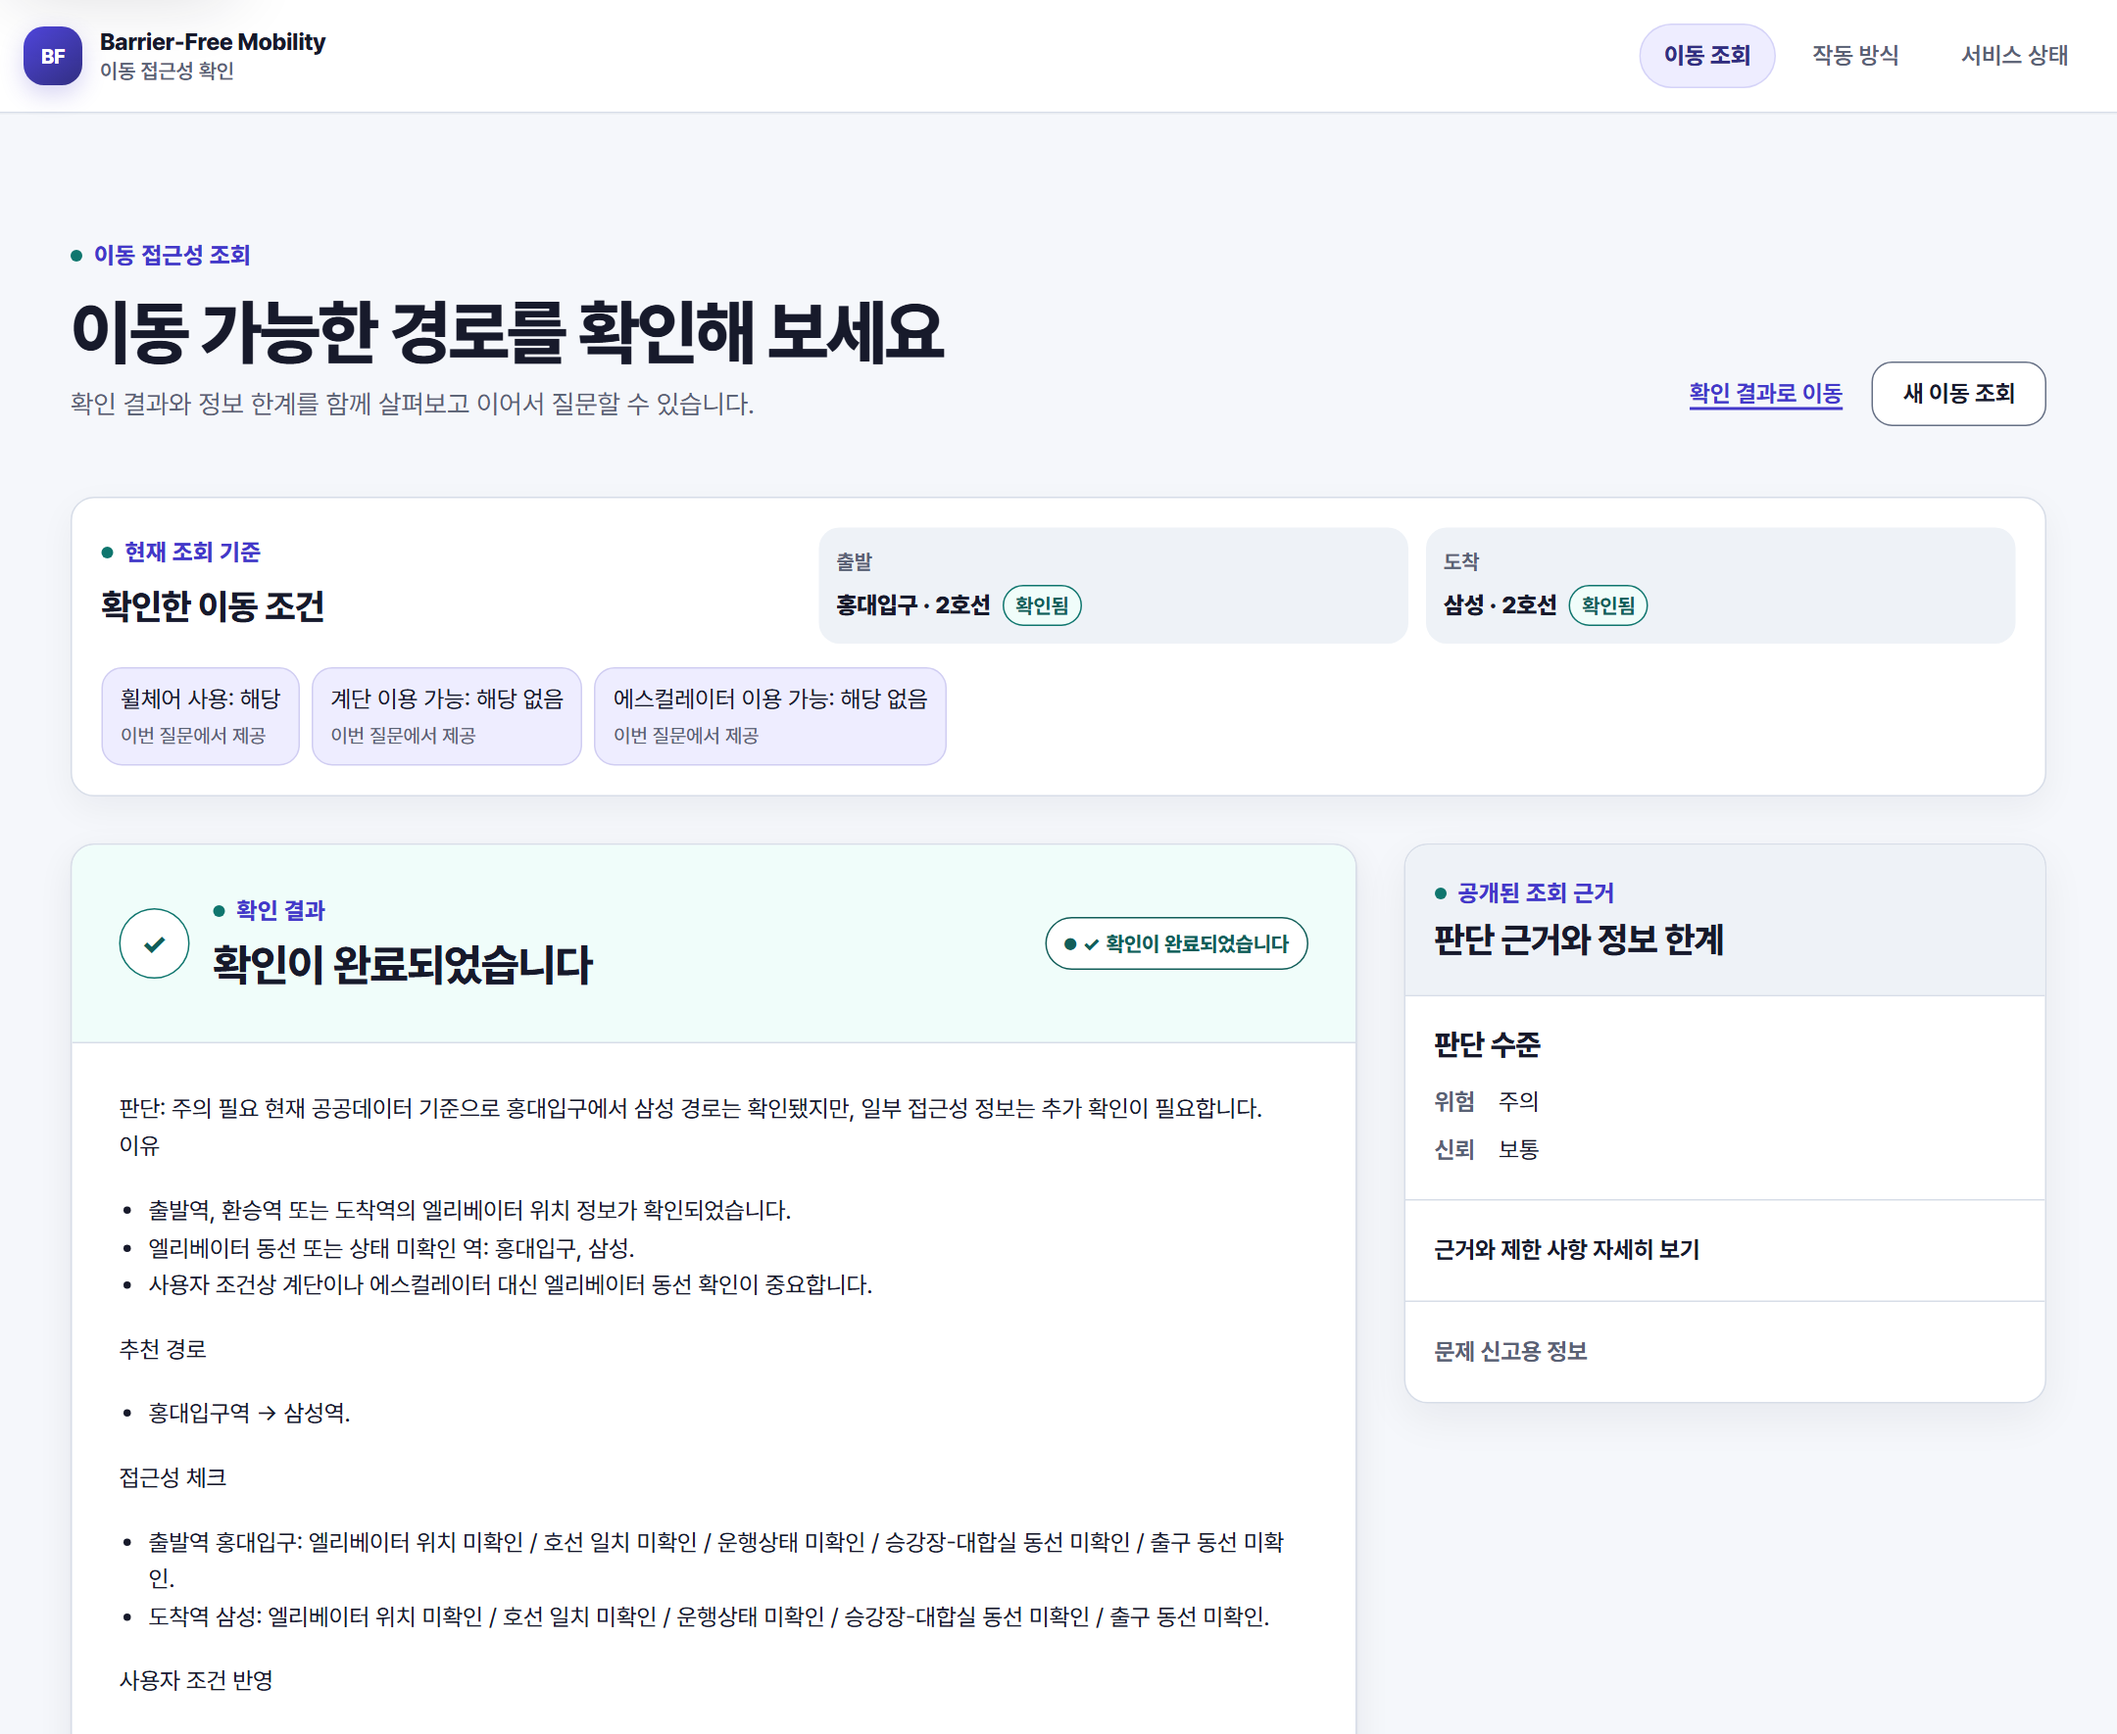
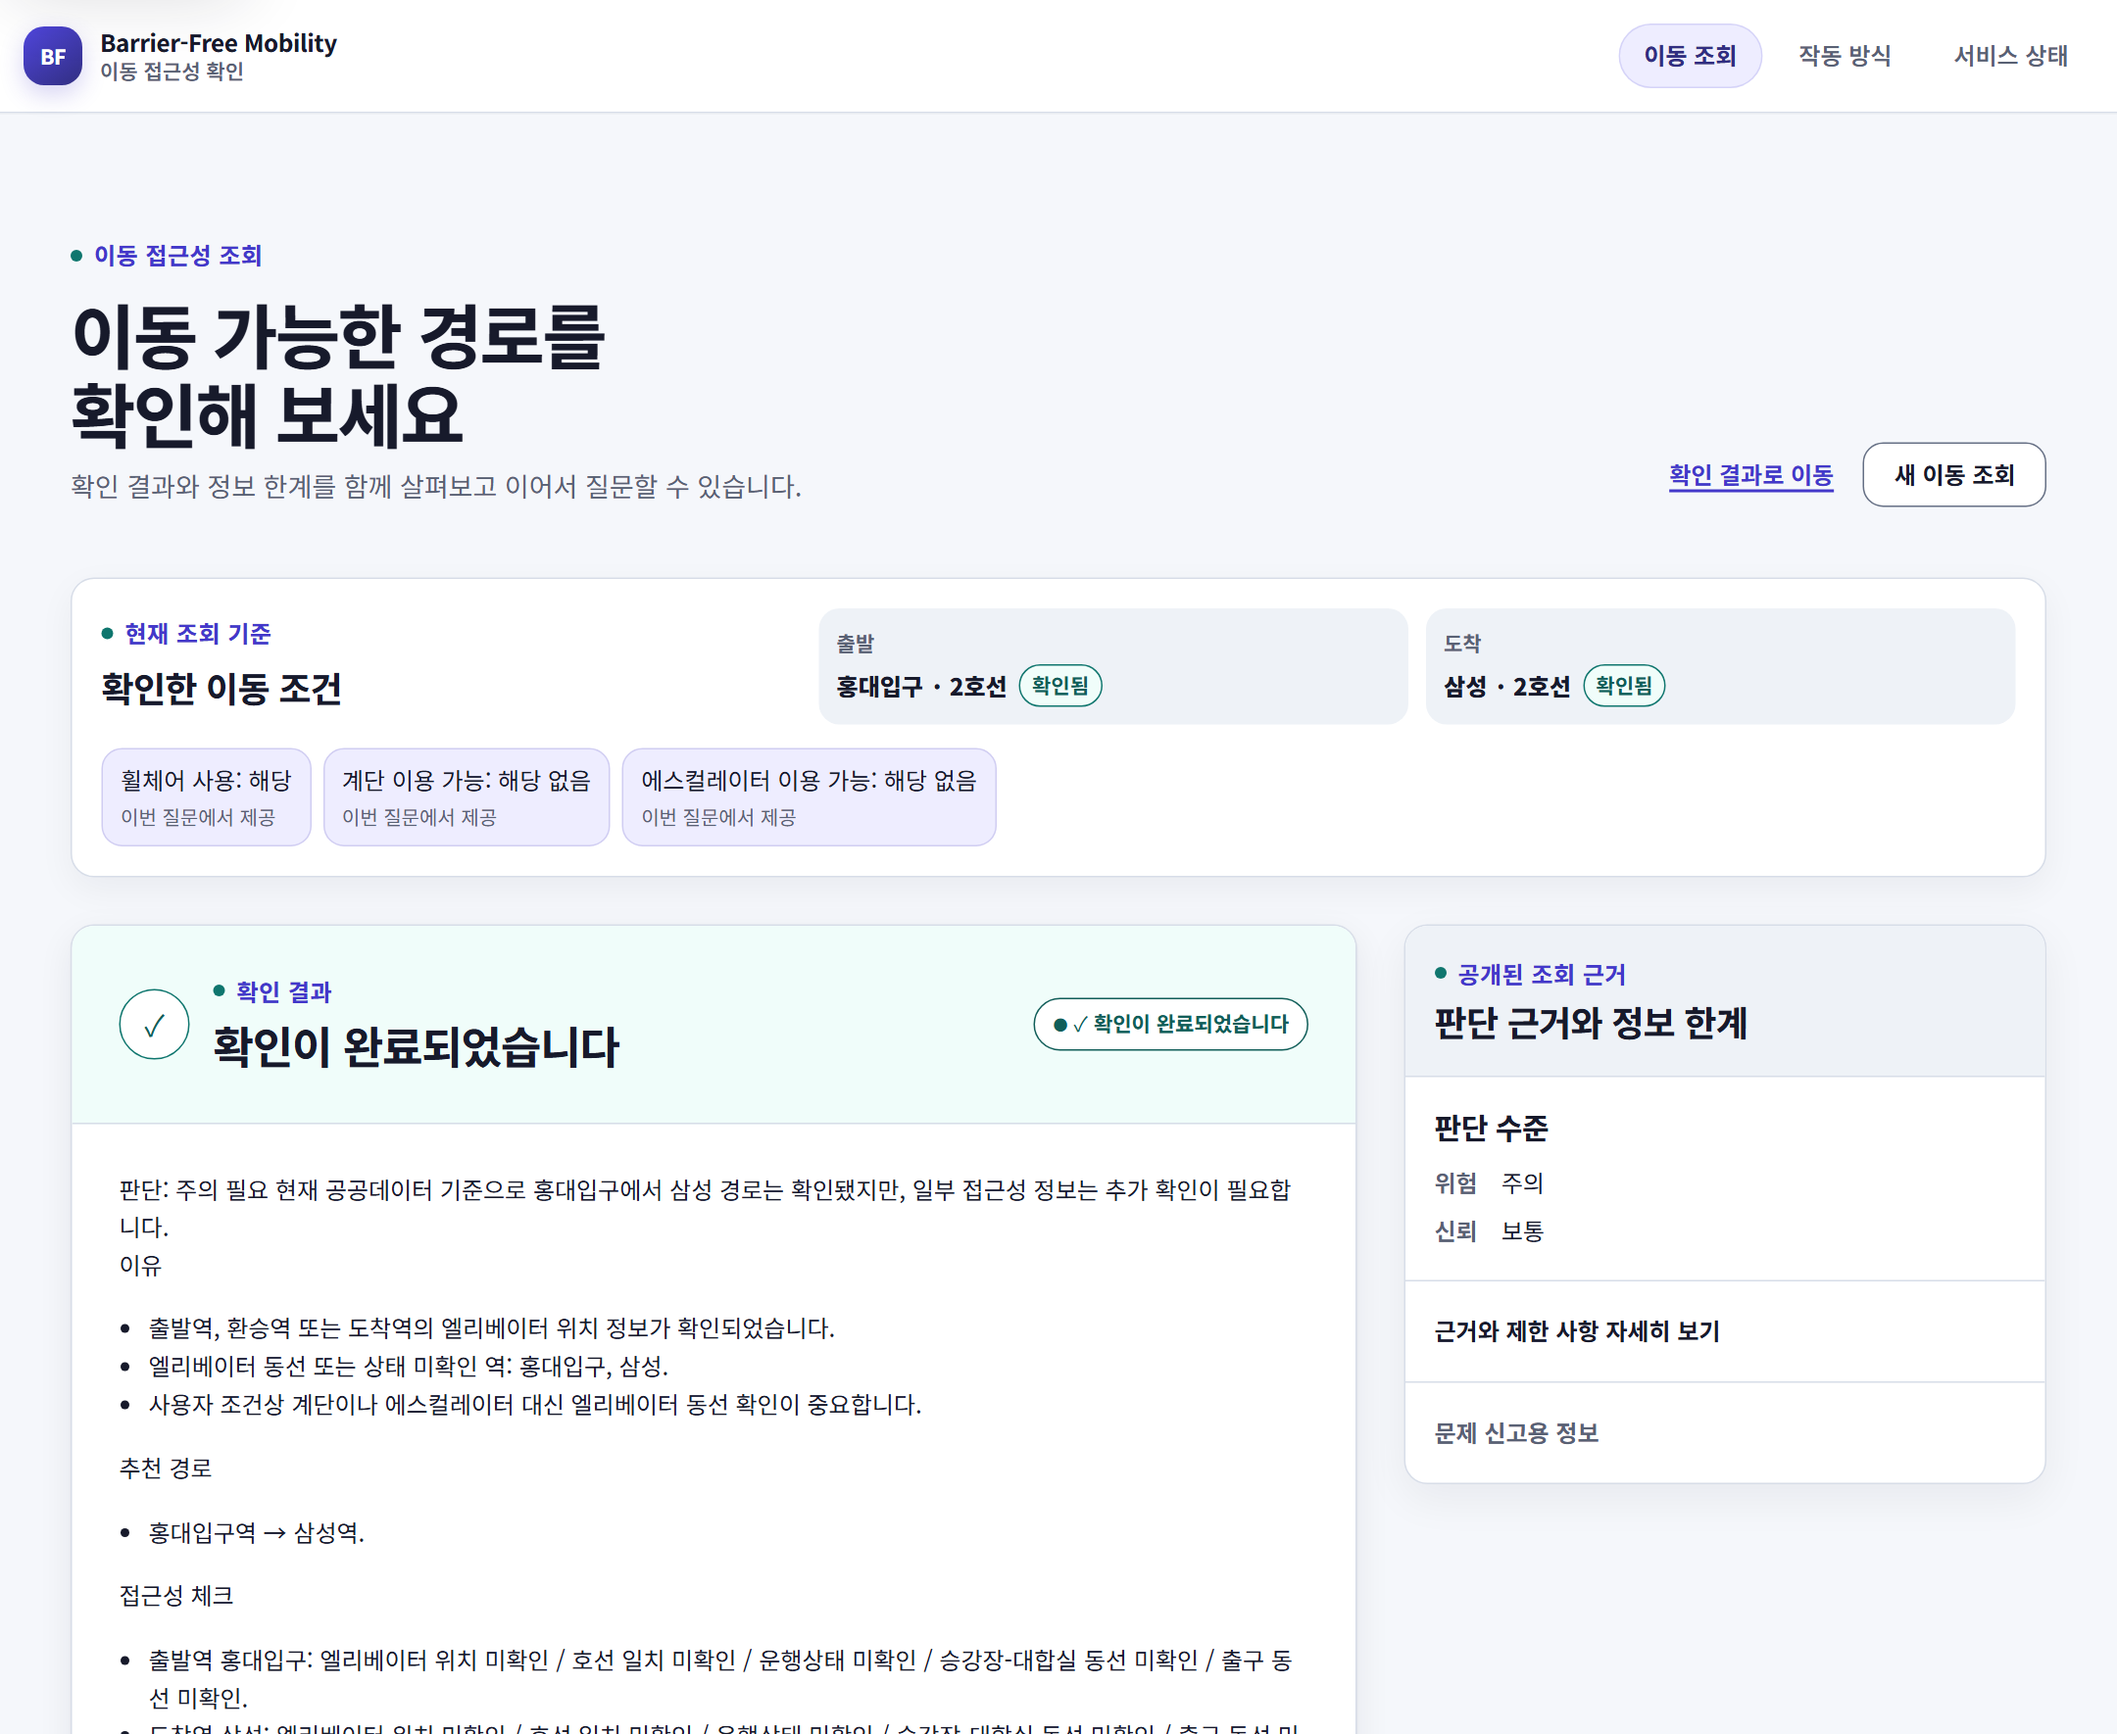
feat: 본문 폰트를 self-host Noto Sans KR로 교체하고 벤더 토큰 연결

diff --git a/web/src/app/layout.tsx b/web/src/app/layout.tsx
@@ -1,10 +1,22 @@
 import type { Metadata, Viewport } from "next";
+import { Noto_Sans_KR } from "next/font/google";
 import type { ReactNode } from "react";
 
 // Vendor styles are loaded once at the App Router boundary. Astryx components
 // themselves may only be imported through components/primitives/astryx-adapter.
 import "@astryxdesign/core/astryx.css";
 import "./globals.css";
+
+// Self-hosted by Next.js at build time, so the product does not depend on a
+// third-party font host at runtime or on the reader having the font installed.
+// The Korean subset is large, so it is not preloaded; `swap` keeps the first
+// paint readable with the metric-adjusted fallback.
+const notoSansKr = Noto_Sans_KR({
+  subsets: ["latin"],
+  variable: "--font-noto-sans-kr",
+  display: "swap",
+  preload: false,
+});
 
 export const metadata: Metadata = {
   title: {
@@ -25,7 +37,7 @@ type RootLayoutProps = Readonly<{
 
 export default function RootLayout({ children }: RootLayoutProps) {
   return (
-    <html lang="ko">
+    <html lang="ko" className={notoSansKr.variable}>
       <body>{children}</body>
     </html>
   );

diff --git a/web/src/theme/tokens.css b/web/src/theme/tokens.css
@@ -48,9 +48,17 @@
   --color-status-unknown-background: #f1f5f9;
   --color-status-unknown-border: #475569;
 
-  --font-sans: "Pretendard Variable", Pretendard, system-ui, -apple-system,
+  /* `--font-noto-sans-kr` is published by next/font in the App Router layout.
+     The literal name keeps rendering stable where that layout is absent. */
+  --font-sans: var(--font-noto-sans-kr, "Noto Sans KR"), system-ui, -apple-system,
     BlinkMacSystemFont, "Segoe UI", sans-serif;
   --font-mono: ui-monospace, SFMono-Regular, Consolas, "Liberation Mono", monospace;
+
+  /* Vendor primitives read these names, so they must resolve to the same
+     product typography instead of the Astryx defaults. */
+  --font-family-body: var(--font-sans);
+  --font-family-heading: var(--font-sans);
+  --font-family-code: var(--font-mono);
   --font-size-caption: 0.875rem;
   --font-size-body: 1rem;
   --font-size-body-large: 1.125rem;
